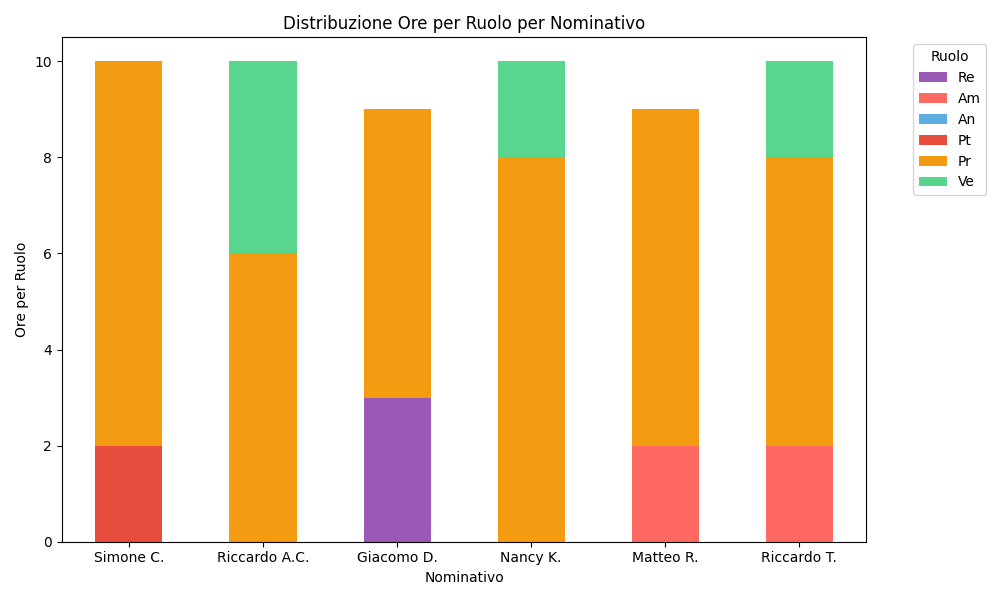
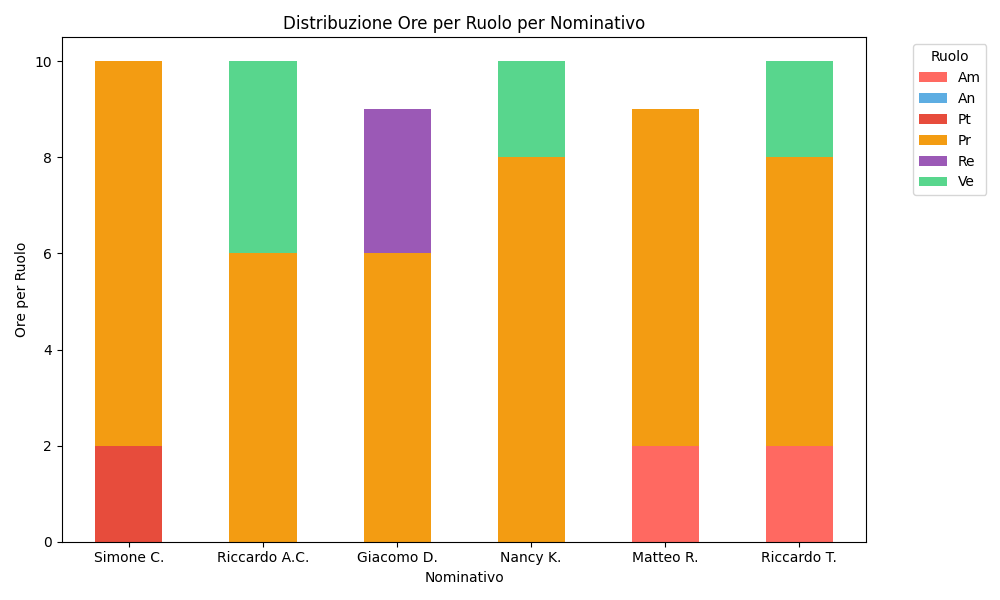
fix e correzione colori, aggiornamento

Changed region(s): [[0.341, 0.66, 0.434, 0.93], [0.341, 0.18, 0.434, 0.42], [0.899, 0.12, 0.992, 0.3]]

diff --git a/src/3_PB/PianoDiProgetto/auto_preventivo.py b/src/3_PB/PianoDiProgetto/auto_preventivo.py
@@ -124,8 +124,8 @@ with open('preventivi/assets/tables/tableProspettoEconomico'+str(sprintNum)+'.cs
     writer = csv.writer(file)
     writer.writerows(table_budget)
 
-role_colors = ["#9B59B6", "#FF6961", "#5DADE2", "#E74C3C", "#F39C12", "#58D68D"]
-role_colors_istogramma = ["#9B59B6", "#FF6961", "#5DADE2", "#E74C3C", "#F39C12", "#58D68D"]
+role_colors = ["#FF6961", "#5DADE2", "#E74C3C", "#F39C12", "#9B59B6", "#58D68D"]
+role_colors_istogramma = ["#FF6961", "#5DADE2", "#E74C3C", "#F39C12", "#9B59B6", "#58D68D"]
 
 # Filtering each vector to correspond only to positive time values
 filtered_values = [
